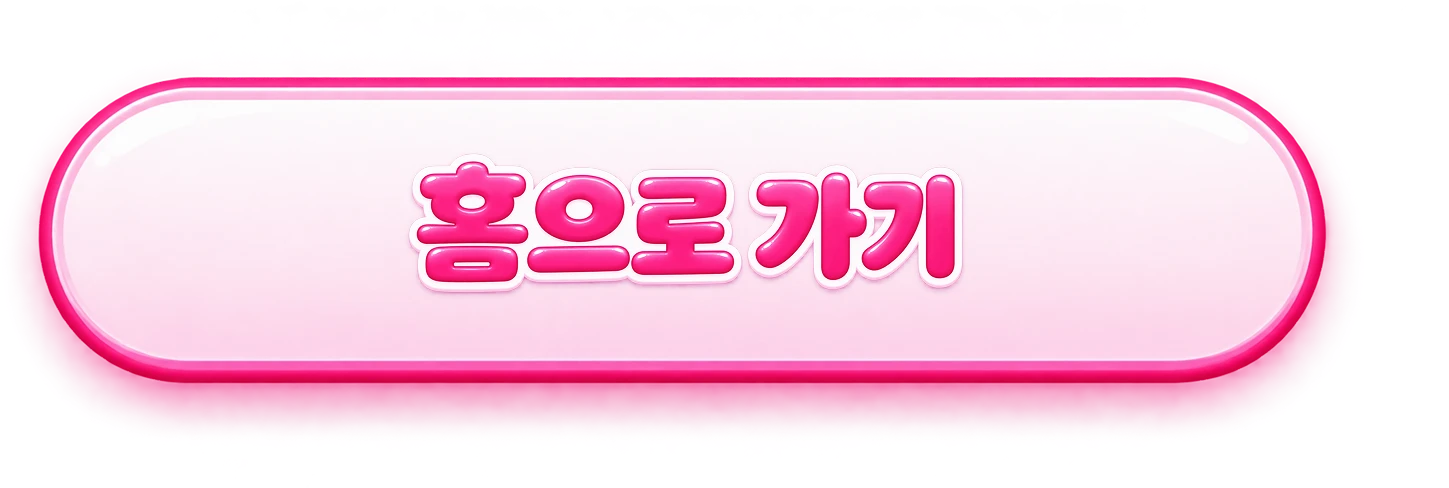
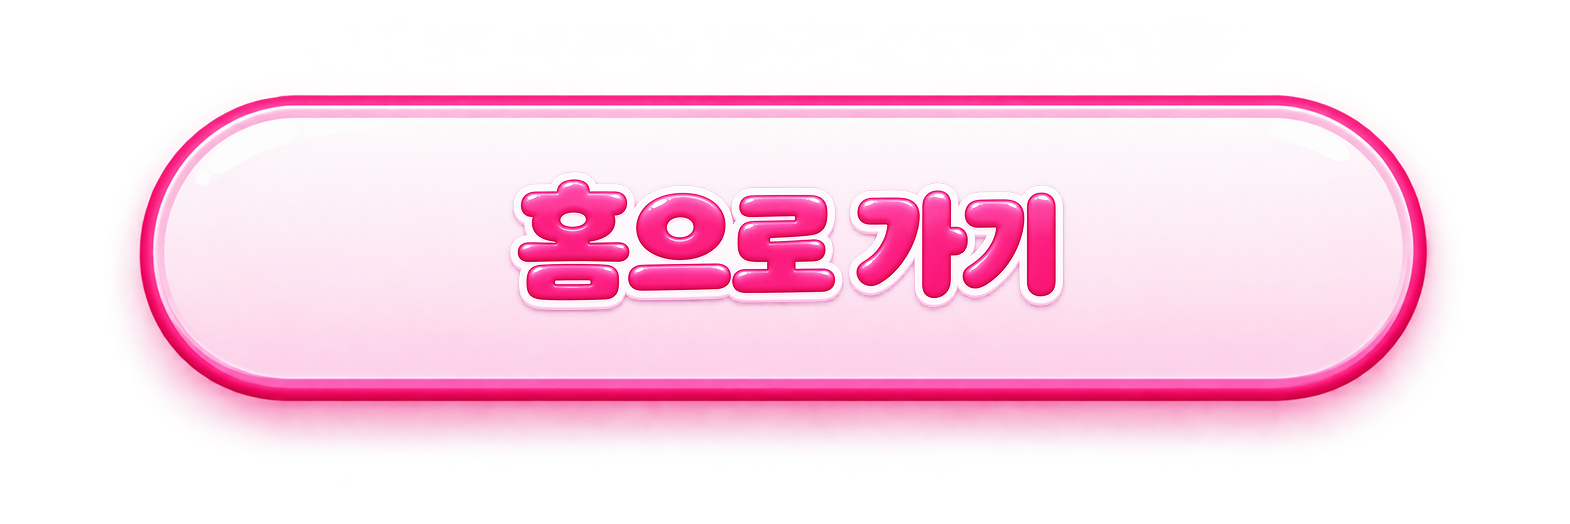
Result screen: use supplied share/replay/home images as-is, scaled to fit
Claude-Session: https://claude.ai/code/session_013ojztcVeVznGHR3rbArzPF

Changed region(s): [[0.0, 0.1537, 0.9317, 0.8607], [0.2795, 0.3074, 0.6832, 0.6148]]

diff --git a/src/screens/result.css b/src/screens/result.css
@@ -300,32 +300,28 @@
   transform: scale(0.96);
 }
 
-/* ---------- 하단 보조 버튼 (이미지) ---------- */
-.pill-btn {
+/* ---------- 하단 버튼 · 공유 버튼: 제공 이미지를 그대로 크기만 맞춰 사용 ---------- */
+.pill-btn,
+.share-img-btn {
   position: absolute;
   padding: 0;
   border: 0;
   background: none;
-  border-radius: 999px;
   cursor: pointer;
   transition: transform 0.12s ease;
 }
-.pill-btn img {
-  /* 이미지 = 알약 + 바깥 글로우. 알약 부분이 버튼 영역에 맞도록 확장 배치 */
-  position: absolute;
-  left: -3.03%;
-  top: -25.57%;
-  width: 112.59%;
-  height: 160%;
-  max-width: none;
+.pill-btn img,
+.share-img-btn img {
+  width: 100%;
+  height: 100%;
 }
 .pill-btn__count {
   /* 이미지 속 핑크 알약 슬롯 위치 */
   position: absolute;
-  left: 73.2%;
-  top: 26.2%;
-  width: 19.9%;
-  height: 49.8%;
+  left: 68.9%;
+  top: 33.6%;
+  width: 16.3%;
+  height: 29%;
   display: grid;
   place-items: center;
   font-style: normal;
@@ -333,57 +329,16 @@
   font-size: calc(var(--u) * 22);
   line-height: 1;
 }
-.pill-btn:active {
-  transform: scale(0.96);
-}
-.pill-btn:focus-visible {
-  outline: calc(var(--u) * 5) solid rgba(21, 59, 142, 0.55);
-  outline-offset: calc(var(--u) * 2);
-}
-
-/* ---------- 카카오톡 공유 버튼 (이미지) ---------- */
-.share-img-btn {
-  position: absolute;
-  padding: 0;
-  border: 0;
-  background: none;
-  border-radius: 999px;
-  cursor: pointer;
-  transition: transform 0.12s ease;
-}
-.share-img-btn img {
-  /* 이미지 = 노란 알약 + 바깥 글로우·장식. 알약이 버튼 영역에 맞도록 확장 */
-  position: absolute;
-  left: -2.55%;
-  top: -25.54%;
-  width: 103.46%;
-  height: 150.15%;
-  max-width: none;
-}
-.share-img-btn[data-done='true'] img {
-  filter: grayscale(0.6) brightness(1.05) opacity(0.75);
-}
-.share-img-btn__done {
-  position: absolute;
-  left: 50%;
-  top: 50%;
-  transform: translate(-50%, -50%) rotate(-3deg);
-  padding: calc(var(--u) * 10) calc(var(--u) * 22);
-  border-radius: 999px;
-  background: rgba(255, 255, 255, 0.95);
-  border: calc(var(--u) * 3) solid var(--pink);
-  color: var(--pink);
-  font-size: calc(var(--u) * 28);
-  white-space: nowrap;
-  box-shadow: 0 calc(var(--u) * 4) calc(var(--u) * 10) rgba(247, 36, 134, 0.25);
-}
+.pill-btn:active,
 .share-img-btn:active:not(:disabled) {
   transform: scale(0.97);
 }
 .share-img-btn:disabled {
   cursor: default;
 }
+.pill-btn:focus-visible,
 .share-img-btn:focus-visible {
   outline: calc(var(--u) * 5) solid rgba(21, 59, 142, 0.55);
-  outline-offset: calc(var(--u) * 2);
+  outline-offset: calc(var(--u) * -10);
+  border-radius: calc(var(--u) * 60);
 }

diff --git a/src/screens/ResultScreen.tsx b/src/screens/ResultScreen.tsx
@@ -145,7 +145,7 @@ export function ResultScreen({ score, reward, wallet, onUseCoupon, onShare, onRe
       <button
         type="button"
         className="share-img-btn"
-        style={box(34, 1146, 644, 127)}
+        style={box(34, 1135, 644, 181)}
         onClick={share}
         disabled={wallet.shareBonusUsed || sharing}
         aria-disabled={wallet.shareBonusUsed || sharing}
@@ -153,24 +153,18 @@ export function ResultScreen({ score, reward, wallet, onUseCoupon, onShare, onRe
         data-done={wallet.shareBonusUsed}
       >
         <img src={ASSETS.buttons.shareKakao} alt="" />
-        {wallet.shareBonusUsed ? (
-          <span className="share-img-btn__done display">
-            공유 완료 · 남은 기회 {wallet.playsLeft}회
-          </span>
-        ) : (
-          <span className="sr-only">친구에게 카카오톡으로 공유하면 게임 참여 기회 1회 추가</span>
-        )}
+        <span className="sr-only">친구에게 카카오톡으로 공유하면 게임 참여 기회 1회 추가</span>
       </button>
 
       {/* 하단 보조 버튼: 사용자 제작 이미지 (텍스트 포함). 버튼 영역 = 이미지 속 알약 모양 */}
-      <button type="button" className="pill-btn" style={box(52, 1301, 296, 70)} onClick={onReplay} data-testid="replay-btn">
+      <button type="button" className="pill-btn" style={box(34, 1290, 322, 107)} onClick={onReplay} data-testid="replay-btn">
         <img src={ASSETS.buttons.replayPill} alt="" />
         <span className="sr-only">다시 플레이하기, 남은 기회</span>
         <em className="pill-btn__count display" data-testid="plays-left">
           {canPlay ? `${wallet.playsLeft}회` : '0회'}
         </em>
       </button>
-      <button type="button" className="pill-btn" style={box(364, 1301, 296, 70)} onClick={onHome}>
+      <button type="button" className="pill-btn" style={box(355, 1290, 322, 107)} onClick={onHome}>
         <img src={ASSETS.buttons.homePill} alt="" />
         <span className="sr-only">홈으로 가기</span>
       </button>
